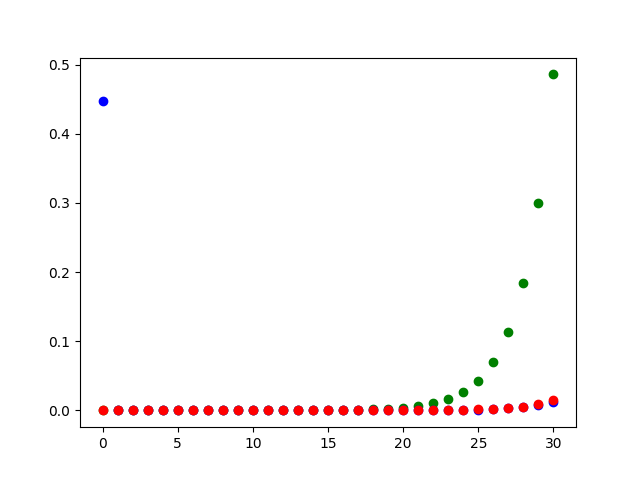
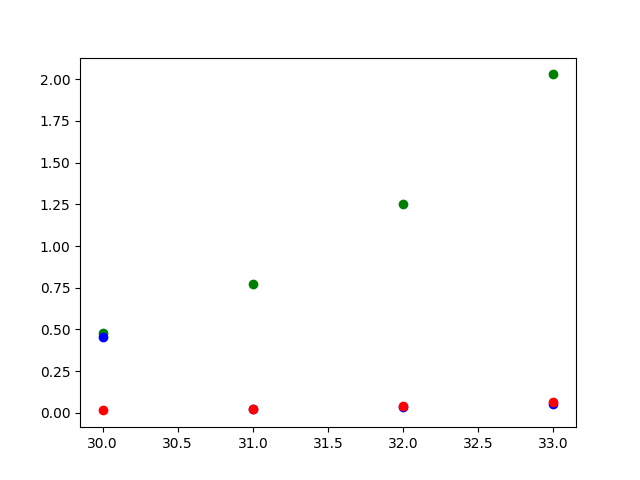
20.3

diff --git a/MA4_files/fibs.py b/MA4_files/fibs.py
@@ -17,10 +17,12 @@ def fib_numba_py(n):
     else:
         return(fib_numba_py(n-1) + fib_numba_py(n-2))
 
-n = range(31)
+n = range(30, 34)
 xp = []
 xn = []
-xf = [] 
+xf = []
+pp30 = []
+np30 = []
 
 # data
 def main():
@@ -41,13 +43,41 @@ def main():
         end = pc()
         xf.append(end-start)
 
+    for i in range(31):
+        start = pc()
+        fib_pure_py(i)
+        end = pc()
+        pp30.append(end-start)
+
+        start = pc()
+        fib_numba_py(i)
+        end = pc()
+        np30.append(end-start)
     print('.png saved')
+
+    print(f'Times for python 1-30, {pp30}')
+    print()
+    print(f'Times for numba 1-30, {np30}')
+    print()
+
+    start = pc()
+    fib_numba_py(30)
+    end = pc()
+    print(f'Time for numba 47,{end-start}')
+    print()
+
+    f = Integer(30)
+    start = pc()
+    f.fib()
+    end = pc()
+    print(f'Time for C++ 47, {end-start}')
+
+    #plot
+    fig, ax = plt.subplots()
+    plt.scatter(n, xp, c='Green')
+    plt.scatter(n, xn, c='Blue')
+    plt.scatter(n, xf, c='Red')
+    plt.savefig('FibTimes')
+
 if __name__ == '__main__':
         main()
-
-#plot
-fig, ax = plt.subplots()
-plt.scatter(n, xp, c='Green')
-plt.scatter(n, xn, c='Blue')
-plt.scatter(n, xf, c='Red')
-plt.savefig('FibTimes')
